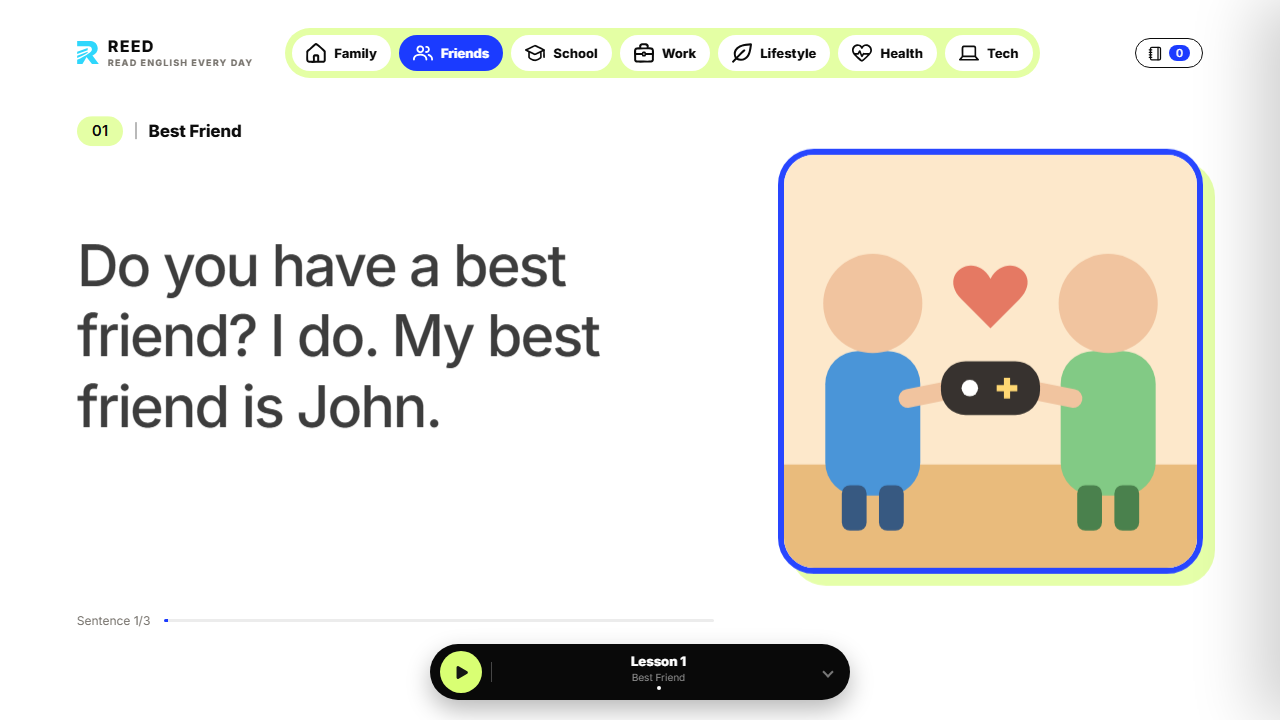
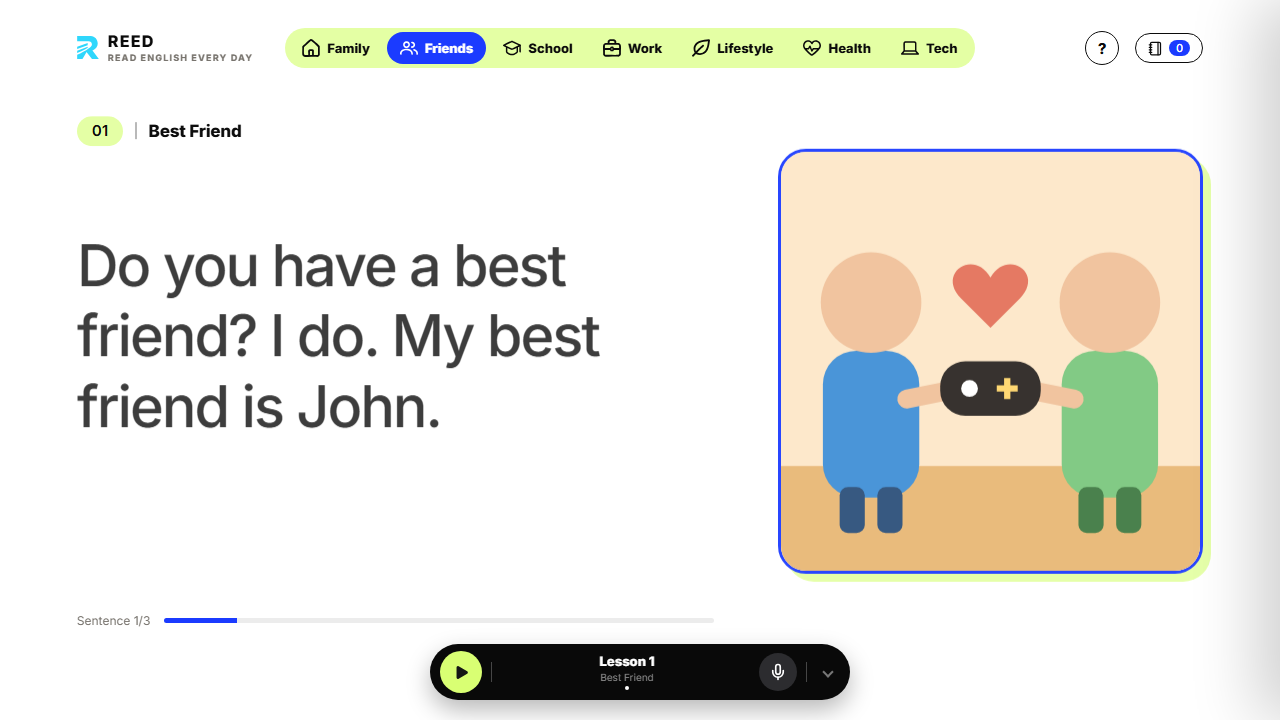
Visual refinement pass 1: lighter hero, topic bar, phrase weight, bookmark/progress
- hero image: thinner border (3px / 2.5px mobile), smaller lime shadow, shorter on phones
- topic bar: thinner container, unselected pills no longer white, smaller icons
- phrase highlight weight 800 -> 700
- bookmark button 34 -> 28px, progress bar 3 -> 5px

diff --git a/deploy/index.html b/deploy/index.html
@@ -70,7 +70,7 @@ body{margin:0;background:var(--bg);color:var(--ink);
 .nbItem .rm{margin-left:auto;border:0;background:none;color:var(--muted);cursor:pointer;font-size:15px;line-height:1;padding:4px}
 .nbEmpty{color:var(--muted);font-size:14px;padding:50px 10px;text-align:center;line-height:1.6}
 .foot .sv{border:1.5px solid var(--grey);background:#fff;color:var(--muted);
-  width:34px;height:34px;padding:0;border-radius:999px;cursor:pointer;display:inline-flex;align-items:center;justify-content:center;flex:none;
+  width:28px;height:28px;padding:0;border-radius:999px;cursor:pointer;display:inline-flex;align-items:center;justify-content:center;flex:none;
   transition:opacity .2s ease,visibility .2s ease}
 .foot .sv svg{display:block}
 .foot .sv.on{background:var(--leaf);border-color:var(--leaf);color:var(--accent)}
@@ -87,13 +87,15 @@ body{margin:0;background:var(--bg);color:var(--ink);
 @media (min-width:821px){ .top{padding-top:28px} }
 @media (min-width:1320px){ .top{min-height:88px} .top .topics{position:absolute;left:50%;top:22px;transform:translateX(-50%);margin:0} }
 @media (min-width:821px) and (max-width:1180px){ .top .topics{margin-left:16px;margin-right:12px} .top .topics button{padding:8px 10px} }
-.topics{display:flex;gap:8px;padding:7px;background:var(--leaf);border-radius:999px;width:max-content;max-width:100%;min-width:0;
+.topics{display:flex;gap:4px;padding:4px;background:var(--leaf);border-radius:999px;width:max-content;max-width:100%;min-width:0;
   overflow-x:auto;scrollbar-width:none;touch-action:pan-x;-webkit-overflow-scrolling:touch}
 .topics::-webkit-scrollbar{display:none}
-.topics button{flex:0 0 auto;display:inline-flex;align-items:center;gap:8px;padding:8px 14px;border:0;border-radius:999px;background:#fff;color:var(--ink);
+.topics button{flex:0 0 auto;display:inline-flex;align-items:center;gap:7px;padding:7px 13px;border:0;border-radius:999px;background:transparent;color:var(--ink);
   font:inherit;font-size:13px;font-weight:700;letter-spacing:0;cursor:pointer;white-space:nowrap;transition:background .2s ease,color .2s ease,transform .15s ease}
 .topics button:active{transform:scale(.95)}
 .topics button[aria-pressed=true]{background:var(--accent);color:#fff}
+.topics button svg{width:18px;height:18px}
+@media (hover:hover){.topics button:not([aria-pressed=true]):hover{background:rgba(255,255,255,.6)}}
 .topics button[data-soon]{opacity:.55}
 .toast{position:fixed;z-index:70;left:50%;bottom:calc(env(safe-area-inset-bottom,0px) + 100px);transform:translate(-50%,8px);padding:10px 16px;border-radius:999px;
   background:#0b0b0b;color:#fff;font-size:13px;font-weight:600;opacity:0;pointer-events:none;transition:opacity .2s ease,transform .2s ease;white-space:nowrap}
@@ -220,7 +222,7 @@ body{margin:0;background:var(--bg);color:var(--ink);
 /* ---- Phrase (chữ nổi bật) ---- */
 .ph,.ph2{background:var(--leaf);   /* A1 và A2 đều trên nền xanh lá; chỉ màu chữ đổi: A1 xanh đậm → A2 đỏ */
   color:color-mix(in srgb,var(--a2) calc(var(--u,1)*100%),var(--a1));border-radius:.1em}
-.ph,.ph2{font-weight:800;letter-spacing:-.04em}
+.ph,.ph2{font-weight:700;letter-spacing:-.035em}
 .ph{display:inline-block;margin:0 .03em;position:relative;vertical-align:top;height:1.16em;line-height:1.16;
   padding:0 .14em;white-space:nowrap;cursor:pointer}
 .ph .o{position:absolute;left:.14em;top:0;white-space:nowrap;opacity:0}
@@ -261,7 +263,7 @@ body{margin:0;background:var(--bg);color:var(--ink);
 .rcw[data-m=up] .base{transform:translateY(-6px)}
 .rcw[data-m=base] .up{transform:translateY(6px)}
 .rcw[data-m=up] .up,.rcw[data-m=base] .base{opacity:1;filter:none;transform:none;transition-duration:.45s;transition-delay:.18s}
-.recap mark{font-weight:800;letter-spacing:-.04em;padding:0 .14em;border-radius:.1em;cursor:pointer;
+.recap mark{font-weight:700;letter-spacing:-.035em;padding:0 .14em;border-radius:.1em;cursor:pointer;
   -webkit-box-decoration-break:clone;box-decoration-break:clone}
 .recap mark.m0{background:var(--leaf);color:var(--a1)}
 .recap mark.m1{background:var(--leaf);color:var(--a2)}
@@ -274,10 +276,10 @@ body{margin:0;background:var(--bg);color:var(--ink);
 .tg button{position:relative;z-index:1;border:0;background:none;font:inherit;font-size:14px;font-weight:600;padding:8px 18px;cursor:pointer;color:var(--ink);transition:color .35s}
 .tg button[aria-pressed=true]{color:#fff}
 .foot{position:absolute;left:0;right:0;bottom:92px;display:flex;align-items:center;gap:14px;font-size:12px;color:var(--muted)}
-.bar{flex:1;height:3px;background:var(--grey);border-radius:3px;overflow:hidden}
+.bar{flex:1;height:5px;background:var(--grey);border-radius:5px;overflow:hidden}
 .bar i{display:block;height:100%;width:0;background:var(--accent)}
-.art{border:6px solid var(--accent);border-radius:36px;overflow:hidden;aspect-ratio:1/1;
-  width:100%;max-height:72vh;justify-self:end;box-shadow:12px 12px 0 var(--leaf)}
+.art{border:3px solid var(--accent);border-radius:28px;overflow:hidden;aspect-ratio:1/1;
+  width:100%;max-height:68vh;justify-self:end;box-shadow:8px 8px 0 var(--leaf)}
 .art{transition:opacity .8s ease,transform .8s cubic-bezier(.2,.8,.2,1)}
 .passage:not(.on) .art{opacity:.25;transform:scale(.96) translateY(10px)}
 .label{transition:opacity .6s}
@@ -395,10 +397,10 @@ body{-webkit-user-select:none;user-select:none;-webkit-touch-callout:none;-webki
 @media (max-width:820px){
   .top{flex-wrap:wrap;row-gap:10px;padding:14px 5vw 6px}
   .top .topics{order:3;width:100%;margin:0}
-  .top .topics{padding:5px}
-  .top .topics button{padding:7px 12px}
+  .top .topics{padding:3px}
+  .top .topics button{padding:6px 11px}
   .stage{grid-template-columns:minmax(0,1fr);grid-template-rows:auto 1fr;gap:3vh;align-content:start;padding-top:112px}
-  .art{grid-row:1;aspect-ratio:16/9;max-height:21vh;justify-self:stretch;border-width:4px;border-radius:24px;box-shadow:8px 8px 0 var(--leaf)}
+  .art{grid-row:1;aspect-ratio:16/9;max-height:19vh;justify-self:stretch;border-width:2.5px;border-radius:20px;box-shadow:5px 5px 0 var(--leaf)}
   .left{grid-row:2;height:auto;align-self:stretch}
   .label{top:0}
   /* Foot nằm trong luồng flex (không còn absolute) → vùng chữ + chú thích luôn dừng phía trên Sentence x/y, không đè nhau */

diff --git a/index.html b/index.html
@@ -70,7 +70,7 @@ body{margin:0;background:var(--bg);color:var(--ink);
 .nbItem .rm{margin-left:auto;border:0;background:none;color:var(--muted);cursor:pointer;font-size:15px;line-height:1;padding:4px}
 .nbEmpty{color:var(--muted);font-size:14px;padding:50px 10px;text-align:center;line-height:1.6}
 .foot .sv{border:1.5px solid var(--grey);background:#fff;color:var(--muted);
-  width:34px;height:34px;padding:0;border-radius:999px;cursor:pointer;display:inline-flex;align-items:center;justify-content:center;flex:none;
+  width:28px;height:28px;padding:0;border-radius:999px;cursor:pointer;display:inline-flex;align-items:center;justify-content:center;flex:none;
   transition:opacity .2s ease,visibility .2s ease}
 .foot .sv svg{display:block}
 .foot .sv.on{background:var(--leaf);border-color:var(--leaf);color:var(--accent)}
@@ -87,13 +87,15 @@ body{margin:0;background:var(--bg);color:var(--ink);
 @media (min-width:821px){ .top{padding-top:28px} }
 @media (min-width:1320px){ .top{min-height:88px} .top .topics{position:absolute;left:50%;top:22px;transform:translateX(-50%);margin:0} }
 @media (min-width:821px) and (max-width:1180px){ .top .topics{margin-left:16px;margin-right:12px} .top .topics button{padding:8px 10px} }
-.topics{display:flex;gap:8px;padding:7px;background:var(--leaf);border-radius:999px;width:max-content;max-width:100%;min-width:0;
+.topics{display:flex;gap:4px;padding:4px;background:var(--leaf);border-radius:999px;width:max-content;max-width:100%;min-width:0;
   overflow-x:auto;scrollbar-width:none;touch-action:pan-x;-webkit-overflow-scrolling:touch}
 .topics::-webkit-scrollbar{display:none}
-.topics button{flex:0 0 auto;display:inline-flex;align-items:center;gap:8px;padding:8px 14px;border:0;border-radius:999px;background:#fff;color:var(--ink);
+.topics button{flex:0 0 auto;display:inline-flex;align-items:center;gap:7px;padding:7px 13px;border:0;border-radius:999px;background:transparent;color:var(--ink);
   font:inherit;font-size:13px;font-weight:700;letter-spacing:0;cursor:pointer;white-space:nowrap;transition:background .2s ease,color .2s ease,transform .15s ease}
 .topics button:active{transform:scale(.95)}
 .topics button[aria-pressed=true]{background:var(--accent);color:#fff}
+.topics button svg{width:18px;height:18px}
+@media (hover:hover){.topics button:not([aria-pressed=true]):hover{background:rgba(255,255,255,.6)}}
 .topics button[data-soon]{opacity:.55}
 .toast{position:fixed;z-index:70;left:50%;bottom:calc(env(safe-area-inset-bottom,0px) + 100px);transform:translate(-50%,8px);padding:10px 16px;border-radius:999px;
   background:#0b0b0b;color:#fff;font-size:13px;font-weight:600;opacity:0;pointer-events:none;transition:opacity .2s ease,transform .2s ease;white-space:nowrap}
@@ -220,7 +222,7 @@ body{margin:0;background:var(--bg);color:var(--ink);
 /* ---- Phrase (chữ nổi bật) ---- */
 .ph,.ph2{background:var(--leaf);   /* A1 và A2 đều trên nền xanh lá; chỉ màu chữ đổi: A1 xanh đậm → A2 đỏ */
   color:color-mix(in srgb,var(--a2) calc(var(--u,1)*100%),var(--a1));border-radius:.1em}
-.ph,.ph2{font-weight:800;letter-spacing:-.04em}
+.ph,.ph2{font-weight:700;letter-spacing:-.035em}
 .ph{display:inline-block;margin:0 .03em;position:relative;vertical-align:top;height:1.16em;line-height:1.16;
   padding:0 .14em;white-space:nowrap;cursor:pointer}
 .ph .o{position:absolute;left:.14em;top:0;white-space:nowrap;opacity:0}
@@ -261,7 +263,7 @@ body{margin:0;background:var(--bg);color:var(--ink);
 .rcw[data-m=up] .base{transform:translateY(-6px)}
 .rcw[data-m=base] .up{transform:translateY(6px)}
 .rcw[data-m=up] .up,.rcw[data-m=base] .base{opacity:1;filter:none;transform:none;transition-duration:.45s;transition-delay:.18s}
-.recap mark{font-weight:800;letter-spacing:-.04em;padding:0 .14em;border-radius:.1em;cursor:pointer;
+.recap mark{font-weight:700;letter-spacing:-.035em;padding:0 .14em;border-radius:.1em;cursor:pointer;
   -webkit-box-decoration-break:clone;box-decoration-break:clone}
 .recap mark.m0{background:var(--leaf);color:var(--a1)}
 .recap mark.m1{background:var(--leaf);color:var(--a2)}
@@ -274,10 +276,10 @@ body{margin:0;background:var(--bg);color:var(--ink);
 .tg button{position:relative;z-index:1;border:0;background:none;font:inherit;font-size:14px;font-weight:600;padding:8px 18px;cursor:pointer;color:var(--ink);transition:color .35s}
 .tg button[aria-pressed=true]{color:#fff}
 .foot{position:absolute;left:0;right:0;bottom:92px;display:flex;align-items:center;gap:14px;font-size:12px;color:var(--muted)}
-.bar{flex:1;height:3px;background:var(--grey);border-radius:3px;overflow:hidden}
+.bar{flex:1;height:5px;background:var(--grey);border-radius:5px;overflow:hidden}
 .bar i{display:block;height:100%;width:0;background:var(--accent)}
-.art{border:6px solid var(--accent);border-radius:36px;overflow:hidden;aspect-ratio:1/1;
-  width:100%;max-height:72vh;justify-self:end;box-shadow:12px 12px 0 var(--leaf)}
+.art{border:3px solid var(--accent);border-radius:28px;overflow:hidden;aspect-ratio:1/1;
+  width:100%;max-height:68vh;justify-self:end;box-shadow:8px 8px 0 var(--leaf)}
 .art{transition:opacity .8s ease,transform .8s cubic-bezier(.2,.8,.2,1)}
 .passage:not(.on) .art{opacity:.25;transform:scale(.96) translateY(10px)}
 .label{transition:opacity .6s}
@@ -395,10 +397,10 @@ body{-webkit-user-select:none;user-select:none;-webkit-touch-callout:none;-webki
 @media (max-width:820px){
   .top{flex-wrap:wrap;row-gap:10px;padding:14px 5vw 6px}
   .top .topics{order:3;width:100%;margin:0}
-  .top .topics{padding:5px}
-  .top .topics button{padding:7px 12px}
+  .top .topics{padding:3px}
+  .top .topics button{padding:6px 11px}
   .stage{grid-template-columns:minmax(0,1fr);grid-template-rows:auto 1fr;gap:3vh;align-content:start;padding-top:112px}
-  .art{grid-row:1;aspect-ratio:16/9;max-height:21vh;justify-self:stretch;border-width:4px;border-radius:24px;box-shadow:8px 8px 0 var(--leaf)}
+  .art{grid-row:1;aspect-ratio:16/9;max-height:19vh;justify-self:stretch;border-width:2.5px;border-radius:20px;box-shadow:5px 5px 0 var(--leaf)}
   .left{grid-row:2;height:auto;align-self:stretch}
   .label{top:0}
   /* Foot nằm trong luồng flex (không còn absolute) → vùng chữ + chú thích luôn dừng phía trên Sentence x/y, không đè nhau */
